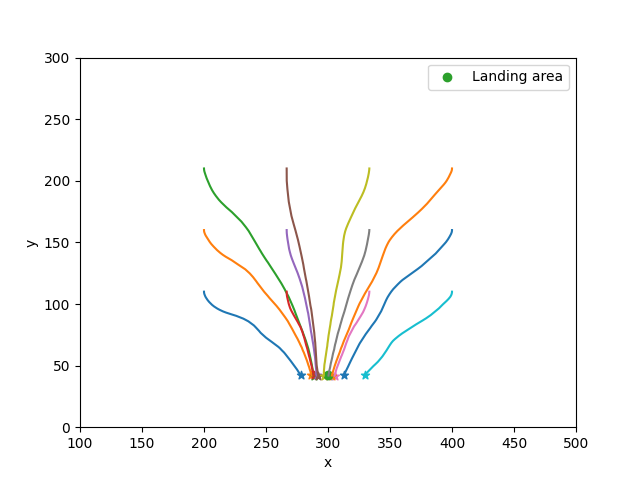
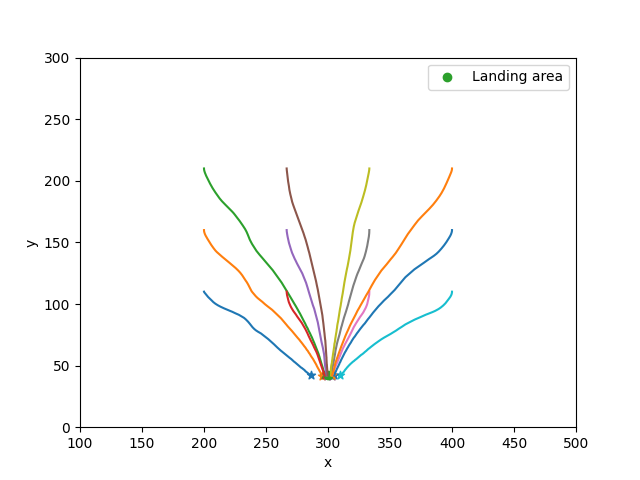
landing kinda works right now with ppo

diff --git a/gyms.py b/gyms.py
@@ -148,12 +148,14 @@ class LandingSpacecraftGym(SpacecraftGym):
         self.y_start = 100
         self.y_end = 200
         self.landing_area = (self.env.map.width//2, 10)
+        self.target_point = (
+            self.landing_area[0], self.landing_area[1] + self.env.height//2)
         self.reset()
 
     def _get_obs(self):
         state = [
-            self.env.position[0] - self.landing_area[0],  # delta x
-            self.env.position[1] - self.landing_area[1],  # delta y
+            self.env.position[0] - self.target_point[0],  # delta x
+            self.env.position[1] - self.target_point[1],  # delta y
             self.env.velocity[0],  # x velocity
             self.env.velocity[1],  # y velocity
             np.cos(self.env.angle),  # cos angle
@@ -173,37 +175,34 @@ class LandingSpacecraftGym(SpacecraftGym):
         self.env.step(action)
 
         # approximate. If ship lands with an angle, side may hold a bit of a positive value
-        y_distance_to_landing_area = np.fabs(
-            (self.env.position[1] - self.env.height//2) - self.landing_area[1])
+        y_distance_to_landing = np.fabs(
+            self.env.position[1] - self.target_point[1])
 
-        max_accepted_velocity = 3 + y_distance_to_landing_area/100 * 10
-        max_accepted_angular_velocity = 0.1 + y_distance_to_landing_area/100 * 0.5
-        max_accepted_angle = 0.1 + y_distance_to_landing_area/100 * 0.5
+        max_accepted_velocity = 1 + y_distance_to_landing/100 * 10
+        max_accepted_angular_velocity = 0.1 + y_distance_to_landing/100 * 0.5
+        max_accepted_angle = 0.1 + y_distance_to_landing/100 * 0.5
 
         terminated = False
         has_landed = False
 
-        x_distance = np.fabs(self.env.position[0] - self.landing_area[0])
+        x_distance = np.fabs(self.env.position[0] - self.target_point[0])
 
         if self.env.state == self.env.STATE_ENDED:
-
-            if y_distance_to_landing_area < 10:
-                print("Landed!!", y_distance_to_landing_area)
-                reward = 1000 - x_distance * 5
+            if y_distance_to_landing < 10:
+                reward = 200 - x_distance
                 has_landed = True
             else:
-                print("Crashed!")
-                reward = -1000
+                reward = -100
                 terminated = True
         elif np.fabs(self.env.angular_velocity) > max_accepted_angular_velocity or self.env.get_velocity() > max_accepted_velocity or np.fabs(self.env.angle) > max_accepted_angle:
             terminated = True
-            reward = -1000
+            reward = -100
         else:
             # use gaze heuristic to guide the vehicle towards the landing area:
 
             # vector pointing from bottom of spacecraft towards landing area
-            landing_area_vec = np.array(self.landing_area) - np.array(
-                [self.env.position[0], self.env.position[1] - self.env.height//2])
+            landing_area_vec = np.array(
+                self.target_point) - np.array(self.env.position)
 
             # normalize landing area vector
             landing_area_vec = landing_area_vec / \
@@ -214,20 +213,19 @@ class LandingSpacecraftGym(SpacecraftGym):
                 np.linalg.norm(self.env.velocity)
 
             # length of difference vector should do
-            direction_error = np.linalg.norm(velocity_vector - landing_area_vec)
+            direction_error = np.linalg.norm(
+                velocity_vector - landing_area_vec)
 
-            # scale direction error with distance to landing area
-            reward = -direction_error * \
-                self.env.get_distance_to(*self.landing_area) * 1e-1
+            reward = -direction_error
 
-            reward -= 0.1
+            # reward -= 0.5
 
             # Add a small negative penalty for each timestep
             # reward -= 0.5
 
         info = {
-            "failed": terminated,
-            "success": has_landed
+            "terminated": terminated,
+            "landed": has_landed
         }
 
         flight_ended = has_landed or terminated
@@ -295,6 +293,13 @@ class LandingEvaluator:
             length_sum += len(v["flight_path"]) - 1
         return length_sum / len(self.results)
 
+    def get_num_landings(self):
+        n_landings = 0
+        for k, v in self.results.items():
+            if v["landed"]:
+                n_landings += 1
+        return n_landings
+
     def save_flight_trajectory_plot(self, path):
         plt.clf()
         plt.xlim((100, 500))
@@ -306,9 +311,9 @@ class LandingEvaluator:
                 x_s.append(x)
                 y_s.append(y)
             plt.plot(x_s, y_s)
-            if v["failed"]:
+            if v["terminated"]:
                 plt.scatter(x_s[-1], y_s[-1], marker="x")
-            elif v["success"]:
+            elif v["landed"]:
                 plt.scatter(x_s[-1], y_s[-1], marker="*")
 
         plt.scatter(
@@ -335,8 +340,8 @@ class LandingEvaluator:
                         action)
                     results[key]["flight_path"].append(self.gym.env.position)
                     results[key]["total_reward"] += reward
-                    results[key]["failed"] = info["failed"]
-                    results[key]["success"] = info["success"]
+                    results[key]["terminated"] = info["terminated"]
+                    results[key]["landed"] = info["landed"]
                     done = terminated or truncated
         self.results = results
         return results

diff --git a/ppo.py b/ppo.py
@@ -96,13 +96,15 @@ class PPO(nn.Module):
 
 
 def train_agent(learning_rate=0.0005,
-                gamma=0.98,
+                n_episodes=10_000,
+                gamma=0.99,
                 lmbda=0.95,
                 eps_clip=0.1,
                 K_epoch=3,
                 T_horizon=200,
                 eval_freq=100,
-                n_episodes=10_000
+                verbose=True,
+                eval_callback_fn=None,
                 ):
 
     env = LandingSpacecraftGym()
@@ -146,10 +148,17 @@ def train_agent(learning_rate=0.0005,
                 torch.from_numpy(state).float()).argmax())
 
             avg_reward = evaluator.get_avg_reward()
-            print("Episode", episode)
-            print("Average reward:", evaluator.get_avg_reward(),
-                  "!" * (avg_reward > best_reward))
-            print("Average length:", evaluator.get_avg_episode_length())
+
+            if eval_callback_fn:
+                eval_callback_fn(avg_reward)
+
+            if verbose:
+                print("Episode", episode)
+                print("Average reward:", evaluator.get_avg_reward(),
+                      "!" * (avg_reward > best_reward))
+                print("Average length:", evaluator.get_avg_episode_length())
+                print("Landings:", evaluator.get_num_landings(),
+                      "/", len(evaluator.results))
 
             if avg_reward > best_reward:
                 evaluator.save_flight_trajectory_plot("best_trajectory.png")
